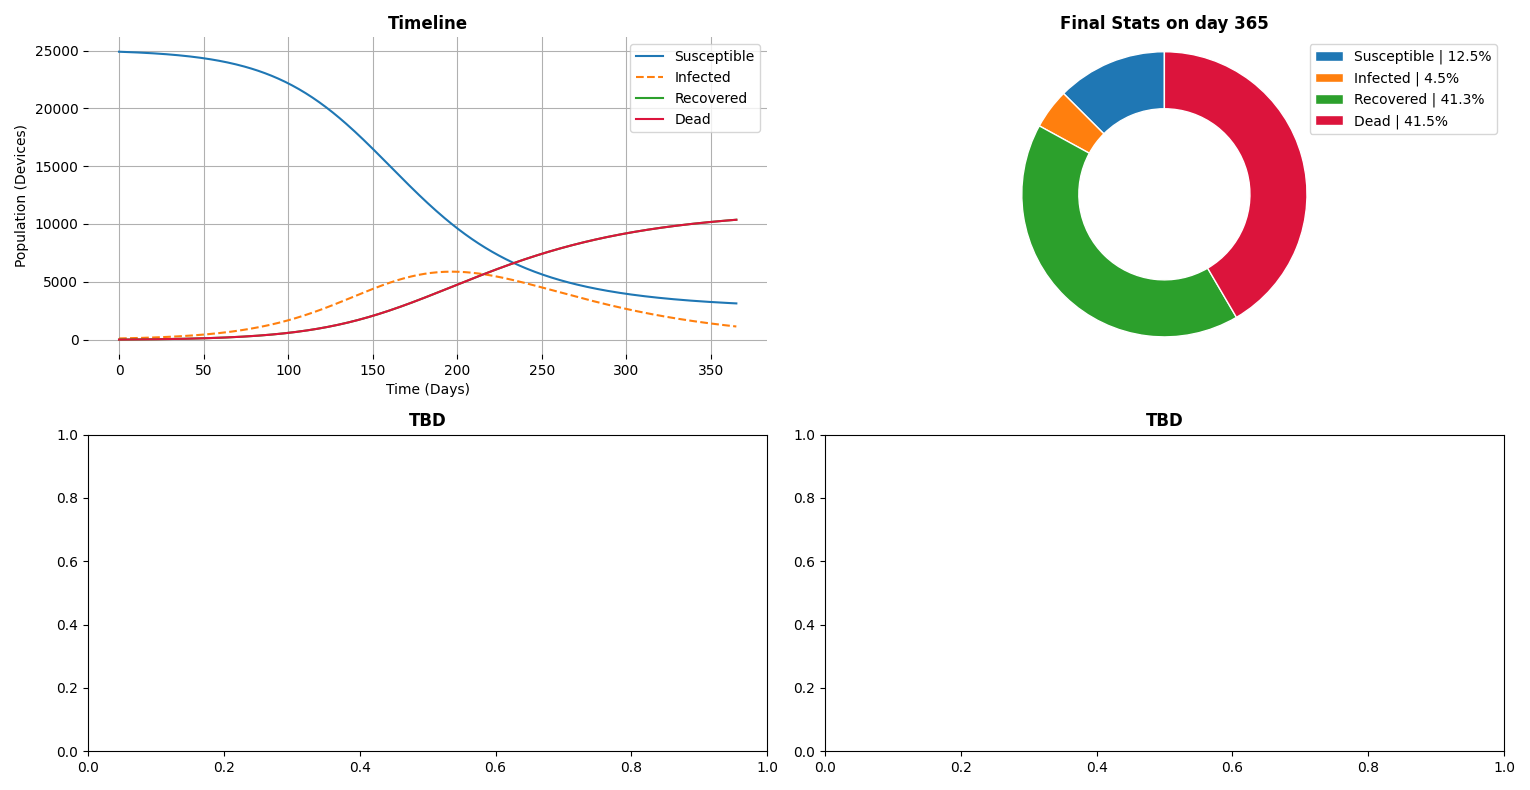
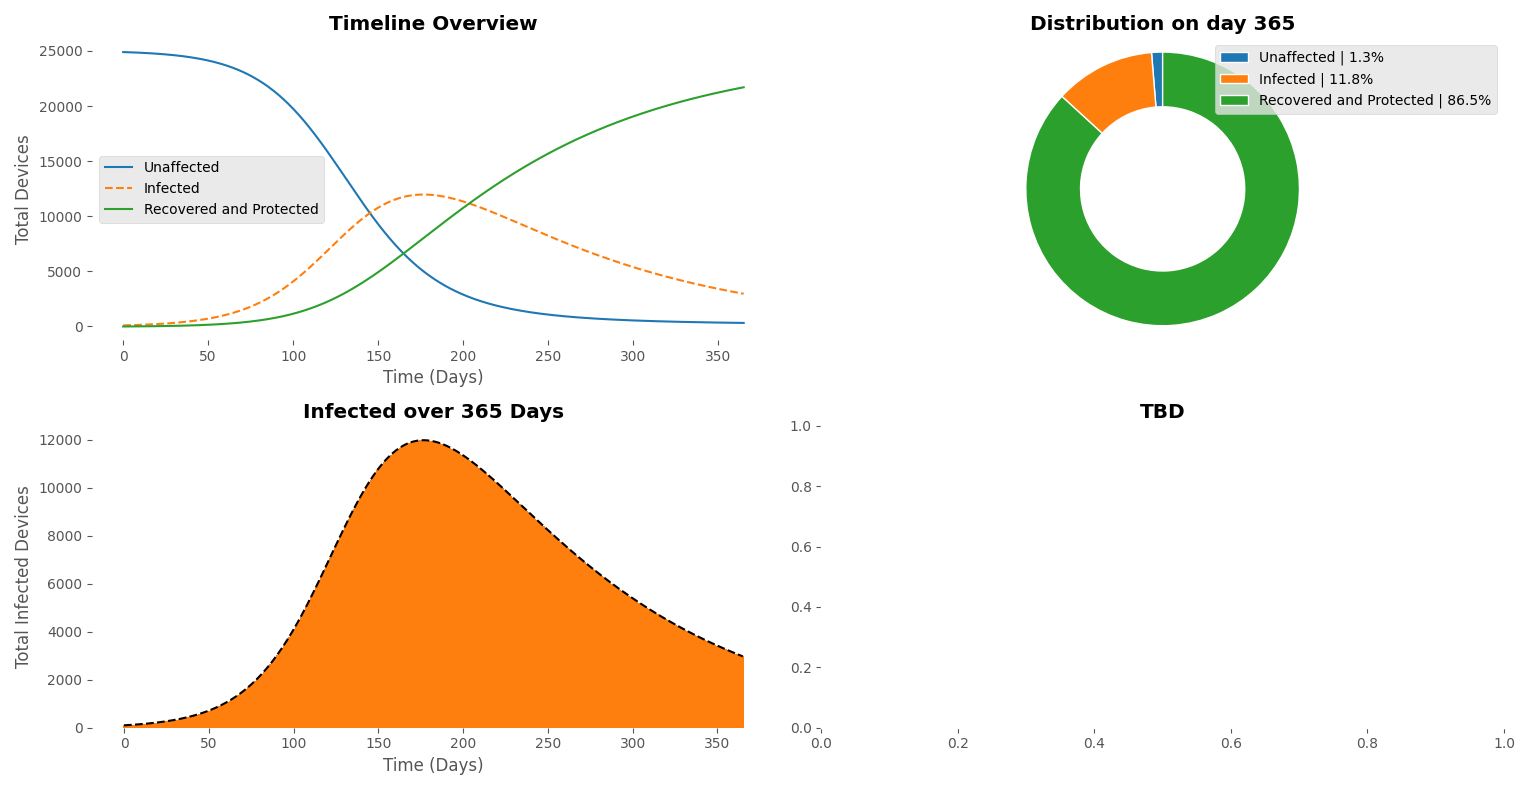
Added Fig Save()

diff --git a/Virus Spread Simulation/models.py b/Virus Spread Simulation/models.py
@@ -2,6 +2,9 @@ import numpy as np
 from scipy.integrate import odeint
 from matplotlib import pyplot as plt
 
+#Style sheet
+plt.style.use('ggplot')
+
 def SIR(sbx_healthy, sbx_infected, sbx_days, sbx_propagation, sbx_r_chance):
     #Starting Susceptible
     N0 = sbx_healthy.value()
@@ -12,10 +15,12 @@ def SIR(sbx_healthy, sbx_infected, sbx_days, sbx_propagation, sbx_r_chance):
 
     # Days to run
     D0 = sbx_days.value()
+
     # Contact rate
     beta = int(sbx_propagation.value()) / 100
+
     # recovery rate
-    gamma = int(sbx_r_chance.value()) / 100
+    gamma = int(sbx_r_chance.value()) / 1000
 
     # recovered individuals
     R0 = 0
@@ -27,6 +32,7 @@ def SIR(sbx_healthy, sbx_infected, sbx_days, sbx_propagation, sbx_r_chance):
     # The SIR model differential equations
     def deriv(y, t, N0, beta, gamma):
         S, I, R = y
+
         dSdt = -beta * S * I / N0
         dIdt = beta * S * I / N0 - gamma * I
         dRdt = gamma * I
@@ -43,31 +49,32 @@ def SIR(sbx_healthy, sbx_infected, sbx_days, sbx_propagation, sbx_r_chance):
     # Plot the data
     fig, axs = plt.subplots(2, 2,figsize=(15.3, 7.9))
     # TOP LEFT plot---------------------------------------------------------
-    axs[0, 0].set_title("Timeline",fontweight="bold")
+    axs[0, 0].set_title("Timeline Overview",fontweight="bold")
     try:
         plt.setp(axs[0, 0], xlabel="Time (Days)")
-        plt.setp(axs[0, 0], ylabel="Population (Devices)")
+        plt.setp(axs[0, 0], ylabel="Total Devices")
         axs[0, 0].grid()
 
-        axs[0, 0].plot(t, S, label='Susceptible', color='tab:blue')
+        axs[0, 0].plot(t, S, label='Unaffected Devices', color='tab:blue')
         axs[0, 0].plot(t, I, linestyle='--', label='Infected', color='tab:orange')
-        axs[0, 0].plot(t, R, label='Recovered & protected', color='tab:green')
+        axs[0, 0].plot(t, R, label='Recovered & Protected', color='tab:green')
+
 
         legend = axs[0, 0].legend()
         legend.get_frame().set_alpha(0.5)
         for spine in ('top', 'right', 'bottom', 'left'):
             axs[0, 0].spines[spine].set_visible(False)
 
-        axs[0, 0].legend(['Susceptible', 'Infected', 'Recovered'], loc='best',
+        axs[0, 0].legend(['Unaffected', 'Infected', 'Recovered and Protected'], loc='best',
                          ncol=1, fancybox=True)
     except Exception as e:
         print(e)
 
     # TOP Right plot---------------------------------------------------------
-    axs[0, 1].set_title("Final Stats on day {}".format(D0),fontweight="bold")
+    axs[0, 1].set_title("Distribution on day {}".format(D0),fontweight="bold")
     try:
 
-        labels = 'Susceptible', 'Infected', 'Recovered'
+        labels = 'Unaffected', 'Infected', 'Recovered and Protected'
 
         colors = ['tab:blue', 'tab:orange', 'tab:green']
 
@@ -76,7 +83,7 @@ def SIR(sbx_healthy, sbx_infected, sbx_days, sbx_propagation, sbx_r_chance):
 
         labels = [f'{l} | {s:0.1f}%' for l, s in zip(labels, sizes)]
 
-        axs[0, 1].pie(sizes, wedgeprops={'width': 0.4, 'linewidth': 1, 'edgecolor': 'white'},
+        axs[0, 1].pie(np.abs(sizes), wedgeprops={'width': 0.4, 'linewidth': 1, 'edgecolor': 'white'},
                       pctdistance=0.8, labeldistance=1.07, startangle=90, colors=colors)
 
         axs[0, 1].legend(labels, loc="best")
@@ -89,9 +96,31 @@ def SIR(sbx_healthy, sbx_infected, sbx_days, sbx_propagation, sbx_r_chance):
 
     axs[1, 1].set_title("TBD",fontweight="bold")
 
-    # Bottom Left plot----------------------------------------------------------
 
-    axs[1, 0].set_title("TBD", fontweight="bold")
+
+    # Bottom Left plot----------------------------------------------------------
+    try:
+        axs[1, 0].set_title("Infected over {} Days".format(D0), fontweight="bold")
+        axs[1, 0].grid()
+
+        plt.setp(axs[1, 0], xlabel="Time (Days)")
+        plt.setp(axs[1, 0], ylabel="Total Infected Devices")
+
+        axs[1, 0].plot(t, I, color='black',linestyle='--')
+        axs[1, 0].bar(t, I,width=1, label='Infected', color='tab:orange')
+
+
+        for spine in ('top', 'right', 'bottom', 'left'):
+            axs[1, 0].spines[spine].set_visible(False)
+
+
+    except Exception as e:
+        print(e)
+
+
+
+
+
 
     # --------------------------------------------------------------------------------------------------------------------
 
@@ -99,8 +128,8 @@ def SIR(sbx_healthy, sbx_infected, sbx_days, sbx_propagation, sbx_r_chance):
     plt.tight_layout()
     plt.savefig("fig_temp.png",transparent=True)
 
-
 def SIRD(sbx_healthy, sbx_infected, sbx_days, sbx_propagation, sbx_r_chance,sbx_mortality):
+
     #Starting Susceptible
     N0 = sbx_healthy.value()
     # Initial number of infected
@@ -114,11 +143,11 @@ def SIRD(sbx_healthy, sbx_infected, sbx_days, sbx_propagation, sbx_r_chance,sbx_
     # Contact rate
     beta = int(sbx_propagation.value()) / 100
     # recovery rate
-    gamma = int(sbx_r_chance.value()) / 100
+    gamma = int(sbx_r_chance.value()) / 1000
 
     #mortality
-    mu = int(sbx_mortality.value()) / 100
-    #mu = 1 / 100
+    mu = int(sbx_mortality.value()) / 1000
+
 
 
     # start recovered individuals
@@ -138,6 +167,7 @@ def SIRD(sbx_healthy, sbx_infected, sbx_days, sbx_propagation, sbx_r_chance,sbx_
         dDdt = mu * I
         return dSdt, dIdt, dRdt, dDdt
 
+
     # Initial conditions vector
     y0 = S0, I0, R0, Dd0
     # Integrate the SIRD equations over the time grid, t.
@@ -153,38 +183,38 @@ def SIRD(sbx_healthy, sbx_infected, sbx_days, sbx_propagation, sbx_r_chance,sbx_
 
 
     # TOP LEFT plot---------------------------------------------------------
-    axs[0, 0].set_title("Timeline", fontweight="bold")
+    axs[0, 0].set_title("Timeline Overview",fontweight="bold")
     try:
         plt.setp(axs[0, 0], xlabel="Time (Days)")
-        plt.setp(axs[0, 0], ylabel="Population (Devices)")
+        plt.setp(axs[0, 0], ylabel="Total Devices")
         axs[0, 0].grid()
 
-        axs[0, 0].plot(t, S, label='Susceptible', color='tab:blue')
+        axs[0, 0].plot(t, S, label='Unaffected', color='tab:blue')
         axs[0, 0].plot(t, I, linestyle='--', label='Infected', color='tab:orange')
         axs[0, 0].plot(t, R, label='Recovered & protected', color='tab:green')
-        axs[0, 0].plot(t, D, label='Dead', color='crimson')
+        axs[0, 0].plot(t, D, label='Irrecoverable', color='crimson')
 
         legend = axs[0, 0].legend()
         legend.get_frame().set_alpha(0.5)
         for spine in ('top', 'right', 'bottom', 'left'):
             axs[0, 0].spines[spine].set_visible(False)
 
-        axs[0, 0].legend(['Susceptible', 'Infected', 'Recovered','Dead'], loc='best',
+        axs[0, 0].legend(['Unaffected', 'Infected', 'Recovered and Protected','Irrecoverable'], loc='best',
                          ncol=1, fancybox=True)
     except Exception as e:
         print(e)
 
     # TOP Right plot---------------------------------------------------------
-    axs[0, 1].set_title("Final Stats on day {}".format(D0), fontweight="bold")
+    axs[0, 1].set_title("Distribution on day {}".format(D0), fontweight="bold")
     try:
-        labels = 'Susceptible', 'Infected', 'Recovered', 'Dead'
+        labels = 'Unaffected', 'Infected', 'Recovered and Protected', 'Irrecoverable'
         colors = ['tab:blue', 'tab:orange', 'tab:green','crimson']
 
         sizes = [S[-1] / P0 * 100, I[-1] / P0 * 100, R[-1] / P0 * 100, D[-1]/N0*100]
 
         labels = [f'{l} | {s:0.1f}%' for l, s in zip(labels, sizes)]
 
-        axs[0, 1].pie(sizes, wedgeprops={'width': 0.4, 'linewidth': 1, 'edgecolor': 'white'},
+        axs[0, 1].pie(np.abs(sizes), wedgeprops={'width': 0.4, 'linewidth': 1, 'edgecolor': 'white'},
                       pctdistance=0.8, labeldistance=1.07, startangle=90, colors=colors)
 
         axs[0, 1].legend(labels, loc="best")
@@ -199,7 +229,24 @@ def SIRD(sbx_healthy, sbx_infected, sbx_days, sbx_propagation, sbx_r_chance,sbx_
 
     # Bottom Left plot----------------------------------------------------------
 
-    axs[1, 0].set_title("TBD", fontweight="bold")
+    try:
+        axs[1, 0].set_title("Infected over {} Days".format(D0), fontweight="bold")
+        axs[1, 0].grid()
+
+        plt.setp(axs[1, 0], xlabel="Time (Days)")
+        plt.setp(axs[1, 0], ylabel="Total Infected Devices")
+
+        axs[1, 0].plot(t, I, color='black',linestyle='--')
+        axs[1, 0].bar(t, I,width=1.0, label='Infected', color='tab:orange')
+
+
+        for spine in ('top', 'right', 'bottom', 'left'):
+            axs[1, 0].spines[spine].set_visible(False)
+
+
+    except Exception as e:
+        print(e)
+
 
     # --------------------------------------------------------------------------------------------------------------------
     plt.tight_layout()

diff --git a/Virus Spread Simulation/main.py b/Virus Spread Simulation/main.py
@@ -1,7 +1,9 @@
 import sys
+import time
 from PyQt5 import QtWidgets, QtGui
 from PyQt5.QtWidgets import QApplication, QMainWindow, QMessageBox
 from PyQt5.QtGui import QPixmap
+
 
 from models import SIR, SIRD
 
@@ -15,7 +17,15 @@ class MyWindow(QMainWindow):
         self.btn_simulate = QtWidgets.QPushButton(self)
 
         # Save sim Button
-        #self.btn_Save = QtWidgets.QPushButton(self)
+        self.btn_Save = QtWidgets.QPushButton(self)
+
+        self.Save_msg = QMessageBox()
+        self.Save_msg.setWindowTitle("Virus Spread")
+        self.Save_msg.setText("Your figure has been saved to /Saved/")
+
+        #progress
+        self.progress = QtWidgets.QProgressBar(self)
+
 
         #Param Reset button
         self.btn_reset = QtWidgets.QPushButton(self)
@@ -97,7 +107,7 @@ class MyWindow(QMainWindow):
         self.lbl_MattCaine.setText("© Matt Caine - UoP - Comp3000 Project")
         self.lbl_MattCaine.setGeometry(1490, 875, 300, 20)
 
-        #self.btn_Save.setDisabled(True)
+        self.btn_Save.setDisabled(True)
         self.sbx_hibernation.setDisabled(True)
         self.sbx_mortality.setDisabled(True)
 
@@ -120,7 +130,7 @@ class MyWindow(QMainWindow):
         self.lbl_Virus_Model.move(20, 65)
 
         self.cbx_Virus_Model.addItem("✅ S.I.R")
-        self.cbx_Virus_Model.addItems(["✅ S.I.R/D", "❌ S.E.I.R", "❌ S.E.I.R/D", "❌ S.I.S"])
+        self.cbx_Virus_Model.addItems(["✅ S.I.R/D", "❌ S.E.I.R", "❌ S.I.S"])
         self.cbx_Virus_Model.setGeometry(19, 90, 100, 25)
 
         self.cbx_Virus_Model.currentTextChanged.connect(self.on_model_combobox_changed)
@@ -196,7 +206,7 @@ class MyWindow(QMainWindow):
         self.sbx_r_chance.move(19, 443)
         self.sbx_r_chance.setMinimum(1)
         self.sbx_r_chance.setMaximum(100)
-        self.sbx_r_chance.setValue(1)
+        self.sbx_r_chance.setValue(10)
         self.sbx_r_chance.setSingleStep(5)
 
 
@@ -207,7 +217,7 @@ class MyWindow(QMainWindow):
         self.sbx_mortality.move(19, 491)
         self.sbx_mortality.setMinimum(1)
         self.sbx_mortality.setMaximum(100)
-        self.sbx_mortality.setValue(1)
+        self.sbx_mortality.setValue(5)
         self.sbx_mortality.setSingleStep(5)
 
         #--------Reset Button--------#
@@ -224,10 +234,10 @@ class MyWindow(QMainWindow):
 
         # ----------------------------------Simulate----------------------------------#
 
-        #self.btn_Save.setText("💾 Save Firgure")
-        #self.btn_Save.move(19, 805)
+        self.btn_Save.setText("💾 Save Figure")
+        self.btn_Save.move(19, 805)
 
-        #self.btn_Save.clicked.connect(self.Click_test)
+        self.btn_Save.clicked.connect(self.Save)
 
 
     # ----------------------------------Functions----------------------------------#
@@ -236,12 +246,25 @@ class MyWindow(QMainWindow):
     def Click_test():
         print("Button Clicked")
 
+    # --------Save--------#
+
+
+    def Save(self):
+        self.img = QPixmap('fig_temp.png')
+
+        self.img.save('Saved/{stamp}.png'.format(stamp = time.strftime("%Y%m%d-%H%M%S")))
+        self.Save_msg.exec_()  # this will show our messagebox
+
+
+
 
     # --------model locks--------#
     def on_model_combobox_changed(self, value):
         if "E" in value:
             self.sbx_hibernation.setDisabled(False)
-        if "D" in value:
+            self.sbx_mortality.setDisabled(True)
+        elif "D" in value:
+            self.sbx_hibernation.setDisabled(True)
             self.sbx_mortality.setDisabled(False)
         else:
             self.sbx_hibernation.setDisabled(True)
@@ -258,9 +281,10 @@ class MyWindow(QMainWindow):
             self.sbx_days.setValue(365)
             self.sbx_propagation.setValue(5)
             self.sbx_hibernation.setValue(1)
-            self.sbx_r_chance.setValue(1)
+            self.sbx_r_chance.setValue(10)
             self.cbx_viruses.setCurrentIndex(0)
-            self.sbx_mortality.setValue(1)
+            self.sbx_mortality.setValue(5)
+            self.simulate()
 
     # -----------------------------------------------------MODELS-----------------------------------------------------#
 
@@ -275,7 +299,7 @@ class MyWindow(QMainWindow):
                 self.figure.resize(self.Fig_img.width(), self.Fig_img.height())
                 self.figure.move(145, 80)
 
-                #self.btn_Save.setDisabled(False)
+                self.btn_Save.setDisabled(False)
 
             elif self.cbx_Virus_Model.currentIndex() == 1:
                 SIRD(self.sbx_healthy, self.sbx_infected, self.sbx_days, self.sbx_propagation, self.sbx_r_chance,self.sbx_mortality)
@@ -286,7 +310,7 @@ class MyWindow(QMainWindow):
                 self.figure.resize(self.Fig_img.width(), self.Fig_img.height())
                 self.figure.move(145, 80)
 
-                #self.btn_Save.setDisabled(False)
+                self.btn_Save.setDisabled(False)
 
             elif self.cbx_Virus_Model.currentIndex() == 2:
                     print("S.E.I.R")
